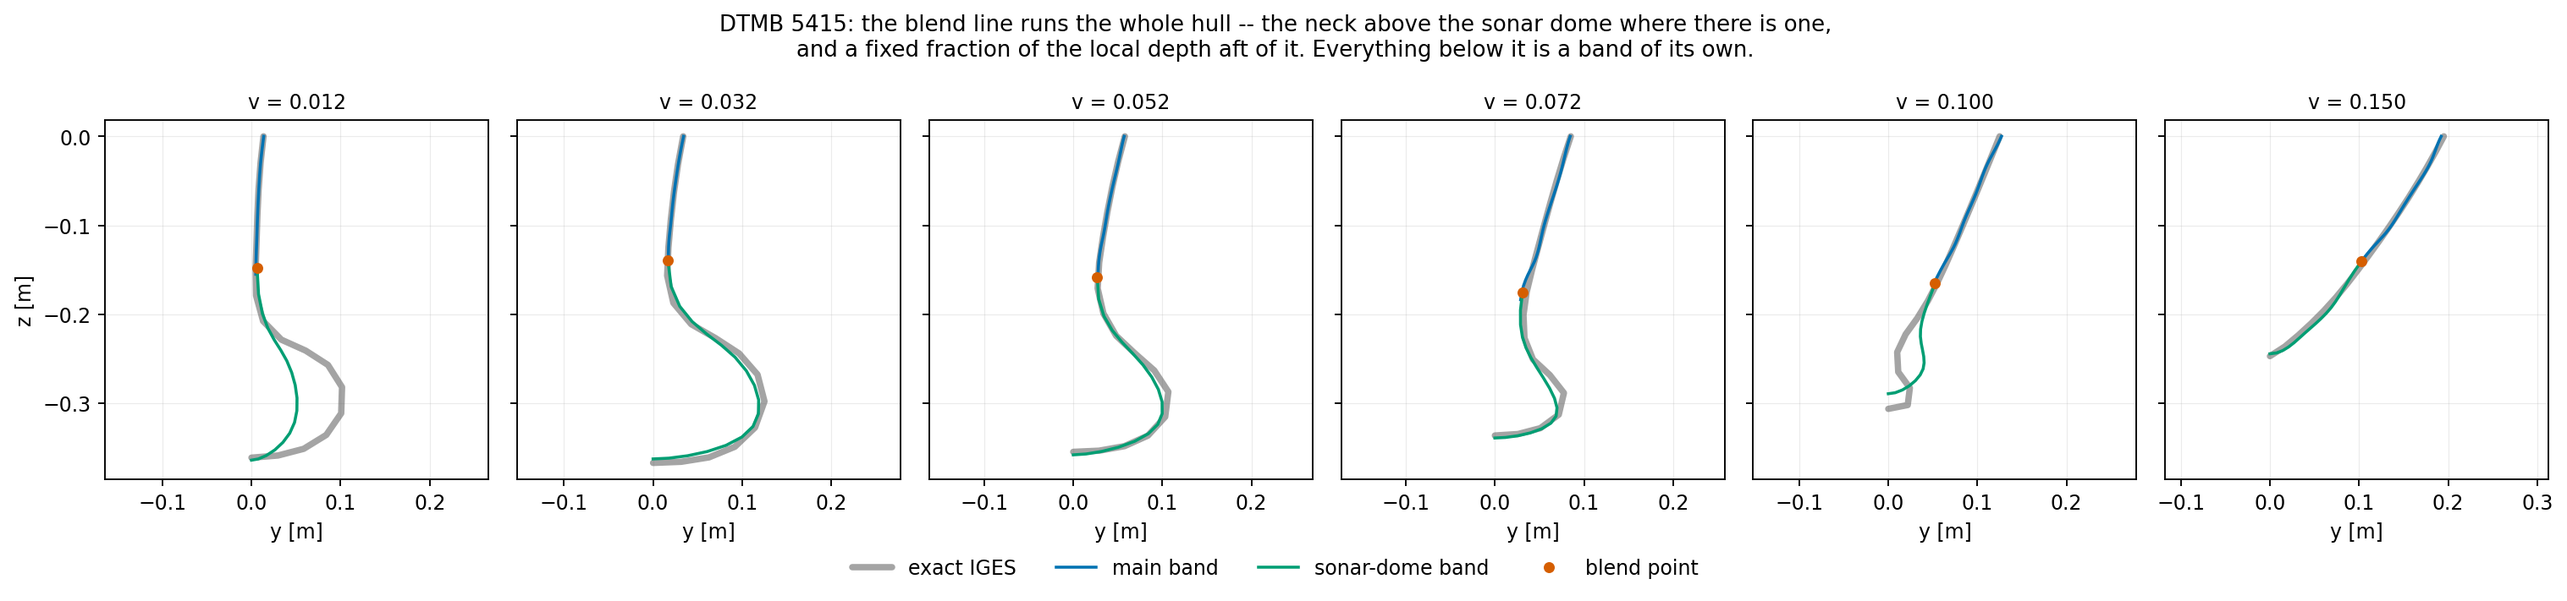
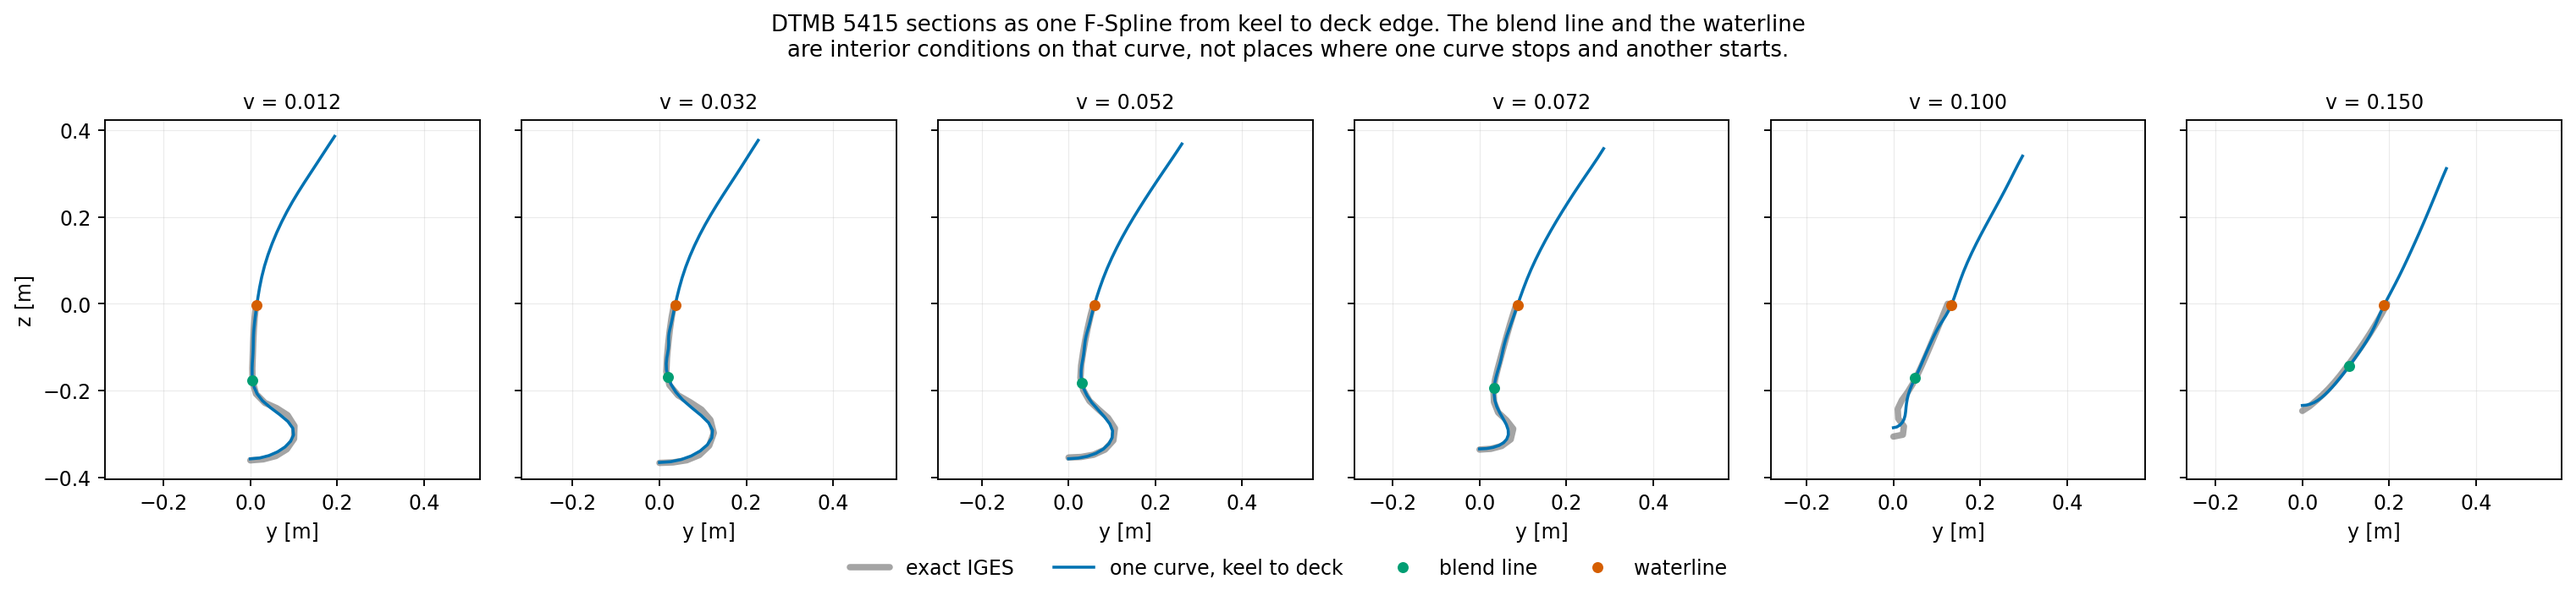
Label the figures for a single-surface hull
The panels drew one curve but still called it a band and still named a
blend seam that no longer exists. They now mark the blend line and the
waterline as interior conditions on the single curve.

Claude-Session: https://claude.ai/code/session_01LU2QNUcyNtY9AJVwHKXnsR

diff --git a/examples/dtmb_5415_dome_and_transom.py b/examples/dtmb_5415_dome_and_transom.py
@@ -125,8 +125,21 @@ def main() -> None:
         if main_section is not None:
             axis.plot(
                 main_section[:, 1], main_section[:, 2], "-", color=main_color,
-                linewidth=1.5, label="main band",
+                linewidth=1.5,
+                label="one curve, keel to deck" if dome is None else "main band",
             )
+            if dome is None:
+                # The blend line and the waterline are interior conditions on
+                # this curve, at fixed parameters; mark where they land.
+                for fraction, colour, name in (
+                    (0.30, "#009e73", "blend line"),
+                    (0.65, "#d55e00", "waterline"),
+                ):
+                    index = int(round(fraction * (main_section.shape[0] - 1)))
+                    axis.plot(
+                        main_section[index, 1], main_section[index, 2], "o",
+                        color=colour, markersize=4.5, zorder=5, label=name,
+                    )
         dome_section = _section_at(dome, x_target)
         if dome_section is not None:
             axis.plot(
@@ -145,7 +158,7 @@ def main() -> None:
         axis.set_aspect("equal", adjustable="datalim")
     np.atleast_1d(axes)[0].set_ylabel("z [m]")
     handles, labels = np.atleast_1d(axes)[0].get_legend_handles_labels()
-    if len(handles) < 4:
+    if len(handles) < 3:
         for candidate in np.atleast_1d(axes):
             handles, labels = candidate.get_legend_handles_labels()
             if len(handles) >= 4:
@@ -155,9 +168,9 @@ def main() -> None:
         bbox_to_anchor=(0.5, -0.06),
     )
     figure.suptitle(
-        "DTMB 5415: the blend line runs the whole hull -- the neck above the sonar "
-        "dome where there is one,\nand a fixed fraction of the local depth aft of "
-        "it. Everything below it is a band of its own.",
+        "DTMB 5415 sections as one F-Spline from keel to deck edge. The blend line "
+        "and the waterline\nare interior conditions on that curve, not places where "
+        "one curve stops and another starts.",
         fontsize=11,
     )
     figure.tight_layout()

diff --git a/examples/dtmb_5415_dome_3d.py b/examples/dtmb_5415_dome_3d.py
@@ -110,11 +110,19 @@ def main() -> None:
     dome_colour, main_colour, seam_colour = "#009e73", "#0072b2", "#d55e00"
     figure = plt.figure(figsize=(16.5, 5.4))
 
-    views = [
-        ("sonar dome and the hull above it", 22, -62),
-        ("looking up from below and forward", -18, -128),
-        ("the band runs the whole length", 16, -68),
-    ]
+    views = (
+        [
+            ("the bow, keel to deck edge in one surface", 22, -62),
+            ("looking up from below and forward", -18, -128),
+            ("one patch, stem to transom", 16, -68),
+        ]
+        if unified
+        else [
+            ("sonar dome and the hull above it", 22, -62),
+            ("looking up from below and forward", -18, -128),
+            ("the band runs the whole length", 16, -68),
+        ]
+    )
     for index, (title, elev, azim) in enumerate(views):
         axis = figure.add_subplot(1, 3, index + 1, projection="3d")
         upper = main if index == 2 else main_near
